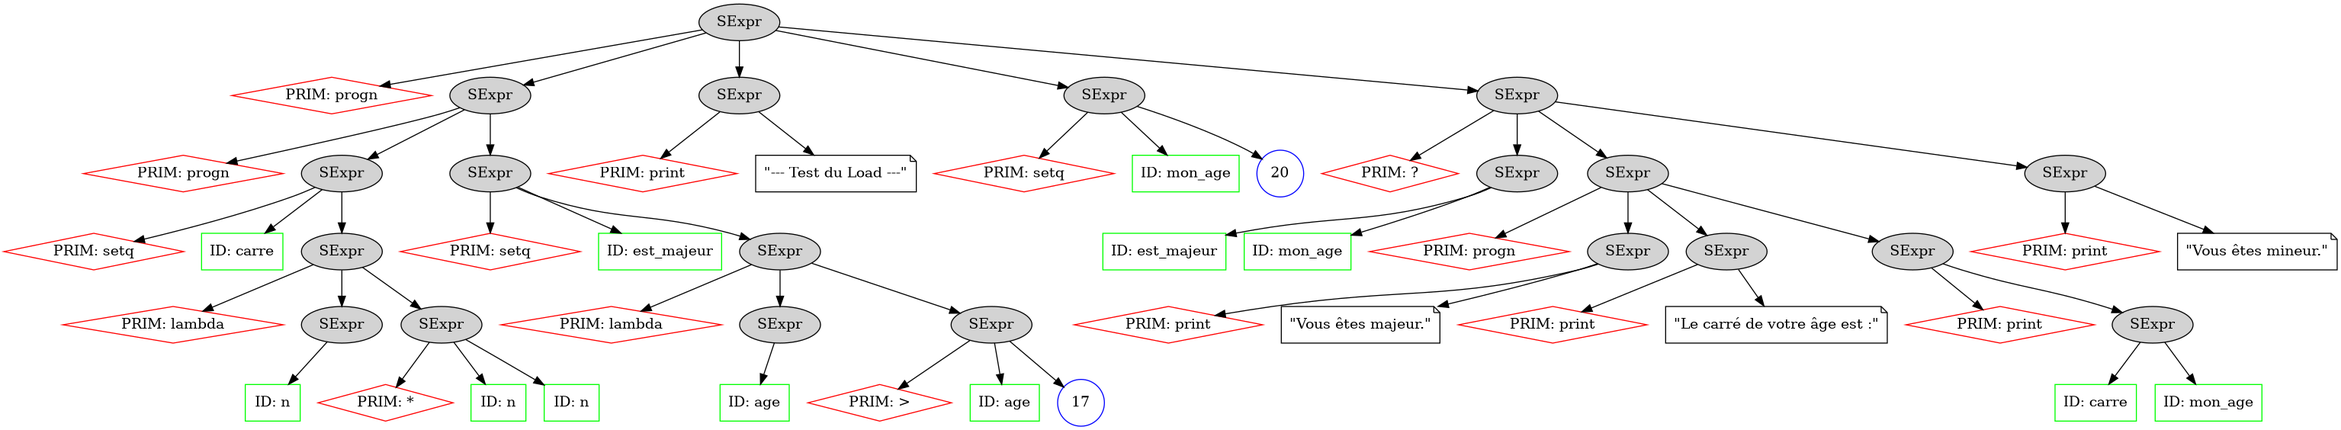
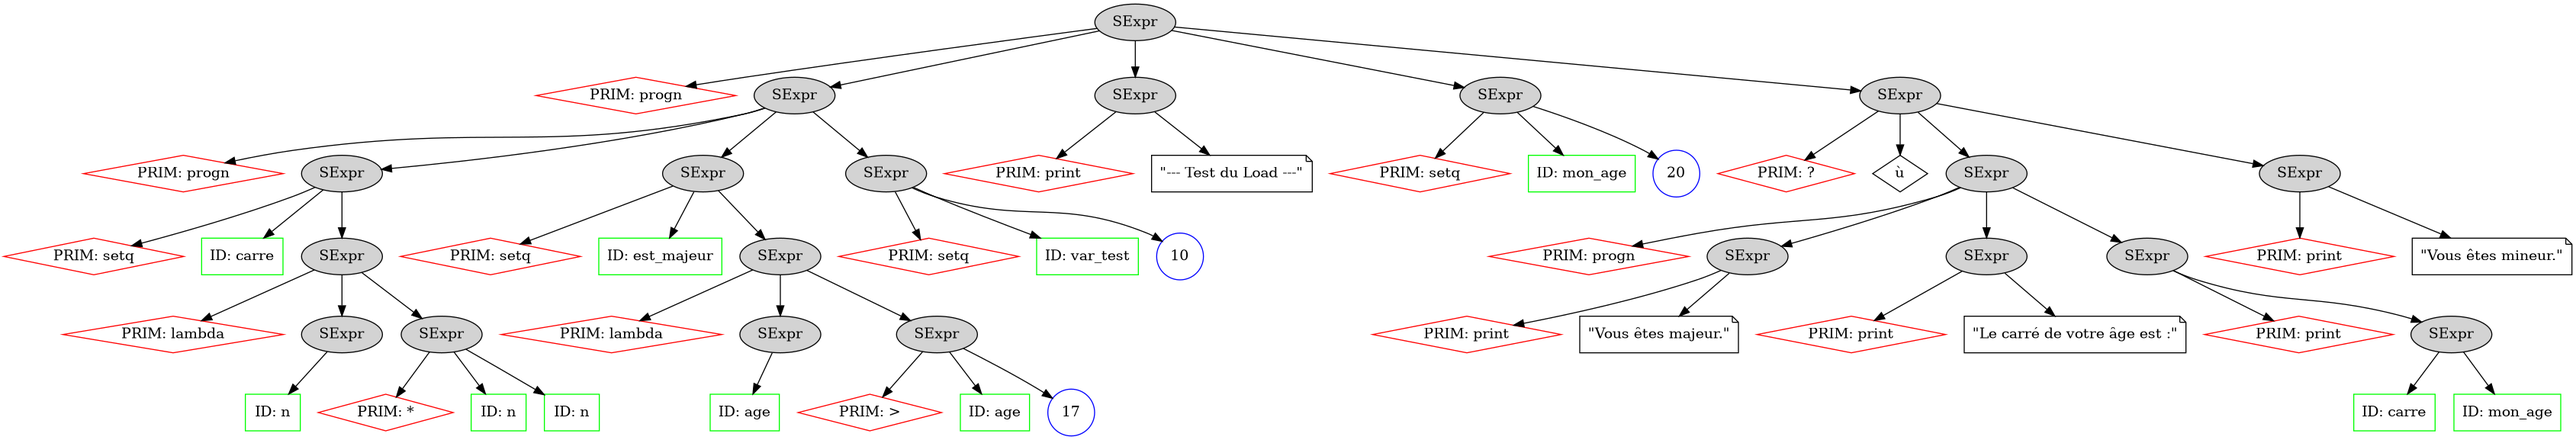
Génération C optimise les fonctions, pas encore les variables

diff --git a/src/CGenerator.cpp b/src/CGenerator.cpp
@@ -84,12 +84,11 @@ void CGenerator::emitPrologue(const IRProgram& program, std::ostream& out) {
 //
 
 void CGenerator::emitFunctions(const IRProgram& program, std::ostream& out) {
+    auto used = collectUsedFunctions(program);  // ← doit être LA PREMIÈRE ligne
+
     for (const auto& [decl, body] : program.functions) {
-        /*// Signature
-        // Si le type de retour est UNKNOWN, on met int par défaut
-        //IRType retType = decl.returnType;
-        //out << (retType == IRType::UNKNOWN ? "int" : irTypeToC(retType));*/
-        // Il était au départ prévu de typer dynamiquement les fonctions, mais je vais simplifier en typant en int à chaque fois
+        if (!used.count(decl.name)) continue;
+
         out << "int";
         out << " " << decl.name << "(";
 
@@ -105,14 +104,10 @@ void CGenerator::emitFunctions(const IRProgram& program, std::ostream& out) {
         }
 
         out << ") {\n";
-
-        // Corps du bloc
         emitBlock(body, out, 1);
-
         out << "}\n\n";
     }
 }
-
 // =============================================================================
 // SECTION 3 : Main
 // =============================================================================
@@ -142,18 +137,53 @@ void CGenerator::emitMain(const IRProgram& program, std::ostream& out) {
 //
 
 void CGenerator::emitBlock(const IR_Block& block, std::ostream& out, int indentLevel) {
-    auto decls = collectDecls(block);
-    if (!decls.empty()) {
-        for (const auto& [type, name] : decls) {
-            out << indent(indentLevel) << irTypeToC(type) << " " << name << ";\n";
+
+    // Calcule les variables vivantes
+    std::unordered_set<std::string> used;
+    for (const auto& instr : block.instructions) {
+        if (std::holds_alternative<IR_Assign>(instr)) {
+            const auto& a = std::get<IR_Assign>(instr);
+            if (!isLiteral(a.src)) used.insert(a.src);
         }
+        else if (std::holds_alternative<IR_BinOp>(instr)) {
+            const auto& b = std::get<IR_BinOp>(instr);
+            if (!isLiteral(b.left))  used.insert(b.left);
+            if (!isLiteral(b.right)) used.insert(b.right);
+        }
+        else if (std::holds_alternative<IR_Call>(instr)) {
+            for (const auto& arg : std::get<IR_Call>(instr).args)
+                if (!isLiteral(arg)) used.insert(arg);
+        }
+        else if (std::holds_alternative<IR_Print>(instr)) {
+            const auto& p = std::get<IR_Print>(instr);
+            if (!isLiteral(p.value)) used.insert(p.value);
+        }
+        else if (std::holds_alternative<IR_CondJump>(instr)) {
+            const auto& j = std::get<IR_CondJump>(instr);
+            if (!isLiteral(j.condition)) used.insert(j.condition);
+        }
+        else if (std::holds_alternative<IR_Return>(instr)) {
+            const auto& r = std::get<IR_Return>(instr);
+            if (!isLiteral(r.value)) used.insert(r.value);
+        }
+    }
+
+    // Déclarations filtrées
+    auto decls = collectDecls(block, used);  // ← passe used
+    if (!decls.empty()) {
+        for (const auto& [type, name] : decls)
+            out << indent(indentLevel) << irTypeToC(type) << " " << name << ";\n";
         out << "\n";
     }
 
+    // Instructions — filtre les assignations vers variables mortes
     const auto& instrs = block.instructions;
     size_t i = 0;
     while (i < instrs.size()) {
-        // Détecte le pattern if/else : CondJump suivi de Label
+        if (std::holds_alternative<IR_Assign>(instrs[i])) {
+            const auto& a = std::get<IR_Assign>(instrs[i]);
+            if (!used.count(a.dest)) { ++i; continue; }  // ← ignore si mort
+        }
         if (std::holds_alternative<IR_CondJump>(instrs[i])) {
             i = emitIfElse(instrs, i, out, indentLevel);
         } else {
@@ -233,15 +263,18 @@ size_t CGenerator::emitIfElse(const std::vector<IRInstruction>& instrs,
 // tout en évitant les doublons.
 //
 
-std::vector<std::pair<IRType, std::string>> CGenerator::collectDecls(const IR_Block& block) {
-    // ordered_map : nom → type (on garde le premier type vu)
+std::vector<std::pair<IRType, std::string>> CGenerator::collectDecls(
+    const IR_Block& block,
+    const std::unordered_set<std::string>& used) {
+
     std::vector<std::pair<IRType, std::string>> result;
     std::unordered_map<std::string, bool> seen;
 
     auto tryAdd = [&](IRType type, const std::string& name) {
         if (name.empty()) return;
-        if (isLiteral(name)) return;  // Pas de déclaration pour les constantes
-        if (seen.count(name)) return; // Déjà vue
+        if (isLiteral(name)) return;
+        if (seen.count(name)) return;
+        if (!used.count(name)) return;  // ← filtre les variables mortes
         seen[name] = true;
         result.push_back({ type, name });
     };
@@ -261,9 +294,7 @@ std::vector<std::pair<IRType, std::string>> CGenerator::collectDecls(const IR_Bl
         }
     }
     return result;
-}
-
-// =============================================================================
+}// =============================================================================
 // SECTION 6 : Traduction d'une instruction
 // =============================================================================
 //
@@ -439,4 +470,35 @@ std::string CGenerator::irTypeToC(IRType type) {
         case IRType::VOID:   return "void";
         default:             return "int"; // Sécurité : au pire, on met int
     }
+}
+
+std::unordered_set<std::string> CGenerator::collectUsedFunctions(const IRProgram& program) {
+    std::unordered_set<std::string> used;
+    std::queue<std::string> toVisit;
+
+    // Collecte les appels depuis main
+    for (const auto& instr : program.mainBlock.instructions) {
+        if (std::holds_alternative<IR_Call>(instr)) {
+            toVisit.push(std::get<IR_Call>(instr).funcName);
+        }
+    }
+
+    // Propagation transitive : si carre appelle autre chose, on l'inclut aussi
+    while (!toVisit.empty()) {
+        std::string fname = toVisit.front(); toVisit.pop();
+        if (used.count(fname)) continue;
+        used.insert(fname);
+
+        // Cherche les appels dans le corps de cette fonction
+        for (const auto& [decl, body] : program.functions) {
+            if (decl.name == fname) {
+                for (const auto& instr : body.instructions) {
+                    if (std::holds_alternative<IR_Call>(instr)) {
+                        toVisit.push(std::get<IR_Call>(instr).funcName);
+                    }
+                }
+            }
+        }
+    }
+    return used;
 }

diff --git a/include/CGenerator.h b/include/CGenerator.h
@@ -65,8 +65,9 @@ private:
     // Retourne un vecteur (type, nom) pour chaque variable à déclarer.
     // On utilise un set pour éviter les doublons (un temporaire peut être dest
     // de plusieurs instructions — ex: dans les branches if).
-    std::vector<std::pair<IRType, std::string>> collectDecls(const IR_Block& block);
-
+    std::vector<std::pair<IRType, std::string>> collectDecls(
+        const IR_Block& block,
+        const std::unordered_set<std::string>& used);  // ← paramètre ajouté
     // =========================================================================
     // Utilitaires d'émission
     // =========================================================================
@@ -86,6 +87,8 @@ private:
     bool isLiteral(const std::string& name);
 
     std::string irTypeToC(IRType type);
+    std::unordered_set<std::string> collectUsedFunctions(const IRProgram& program);
+
 };
 
 #endif //COMPILATEUR_JULIESP_CGENERATOR_H

diff --git a/output/output.c b/output/output.c
@@ -12,26 +12,17 @@ int carre(int n) {
     return t0;
 }
 
-int est_majeur(int age) {
-    int t1;
-
-    t1 = age > 17;
-    return t1;
-}
-
 int main(void) {
     int mon_age;
-    int t2;
-    int t4;
+    int t3;
 
     printf("%s\n", "--- Test du Load ---");
     mon_age = 20;
-    t2 = est_majeur(mon_age);
-    if (t2) {
+    if (0) {
         printf("%s\n", "Vous êtes majeur.");
         printf("%s\n", "Le carré de votre âge est :");
-        t4 = carre(mon_age);
-        printf("%d\n", t4);
+        t3 = carre(mon_age);
+        printf("%d\n", t3);
     } else {
         printf("%s\n", "Vous êtes mineur.");
     }

diff --git a/include/pch.h b/include/pch.h
@@ -21,6 +21,9 @@
 #include <unordered_map>
 #include <limits.h>
 #include <unistd.h>
+#include <unordered_set>
+#include <queue>
+#include <unordered_set>
 using namespace std;
 
 #ifndef COMPILATEUR_JULIESP_PCH_H

diff --git a/tests_bench/Lexer_tb.hpp b/tests_bench/Lexer_tb.hpp
@@ -26,7 +26,7 @@ std::string testCode = R"(
 
 (: mon_age 20)
 
-(? (est_majeur mon_age)
+(? ù        §§ (est_majeur mon_age)
    (;
      (€ "Vous êtes majeur.")
      (€ "Le carré de votre âge est :")
